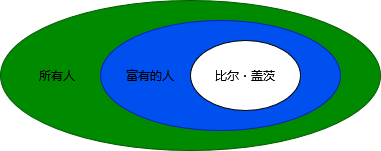
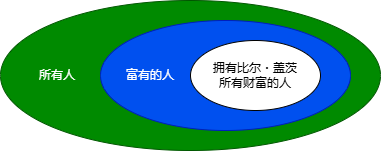
updated chapter_1.rst

diff --git a/static/css/style.css b/static/css/style.css
@@ -230,7 +230,6 @@ body.chapter .chapter-content-container {
     margin-left: 1rem;
     width: 70%;
     line-height: 1.6; /* 设置行间距 */
-    ext-align: justify; /* 文本两端对齐 */
 }
 
 body.book_preface .preface-content-container,
@@ -238,7 +237,6 @@ body.book_author .author-content-container {
     width: 80%;
     margin: 0 auto;  /* 让容器水平居中 */
     line-height: 1.7; /* 设置行间距 */
-    ext-align: justify; /* 文本两端对齐 */
 }
 
 body.book_preface .preface-title-container,
@@ -249,19 +247,20 @@ body.book_author .author-title-container {
     text-align: center;      /* 确保内容文字居中 */
 }
 
-/* 对段落生效 */
+/* 对段落生效 
 body.chapter .chapter-content-container p,
 body.book_preface .preface-content-container p,
 body.book_author .author-content-container p {
-    line-height: 1.5; /* 设置行间距 */
-    ext-align: justify; /* 文本两端对齐 */
-}
+    line-height: 1.5;  设置行间距 
+    ext-align: justify; /* 文本两端对齐 
+} */
 
 
 
 .rst-content {
-    font-size: 0.95rem;
-    line-height: 1.5;  /* 适度增加行距，提升可读性 */
+    font-size: 0.82rem;
+    line-height: 1.7;  /* 适度增加行距，提升可读性 */
+    text-align: justify;  /* 両端揃え */
 }
 
 /* 调整 reStructuredText 生成的标题大小和行距 */
@@ -289,6 +288,8 @@ body.book_author .author-content-container p {
 /* 代码块整体样式 */
 pre {
     background-color: #f8f9fa;  /* 代码块背景色 */
+    font-size: 0.79rem;
+    font-family: 'Fira Code', monospace;
     padding: 10px;
     border-radius: 6px;
     overflow-x: auto;
@@ -298,8 +299,6 @@ pre {
 
 /* 行内代码（去除语法高亮样式） */
 code {
-    font-family: "Open Sans", sans-serif;
-    font-size: 14px;
     background: none;
     padding: 2px 4px;
     border-radius: 4px;

diff --git a/templates/tutorials.html b/templates/tutorials.html
@@ -5,7 +5,7 @@
     <!-- 页面标题 -->
     <h1 class="text-start tutorials-page-title">Logic for Everybody (LG4E)</h1>
     <p class="mt-4 tutorials-description">
-        这个网站目前主要面向母语为简体中文的读者们。内容会从翻译一些逻辑学入门书籍开始・・・
+        这个网站目前主要面向母语为简体中文的读者们。会从翻译一些逻辑学入门书开始・・・
     </p>
 
     <!-- 分类卡片网格布局 -->

diff --git a/templates/base.html b/templates/base.html
@@ -21,8 +21,10 @@
     <!-- MathJax 配置 -->
     <script>
         MathJax = {
-            tex: { 
-                inlineMath: [['$', '$'], ['\\(', '\\)']]
+            tex: {
+                inlineMath: [['$', '$'], ['\\(', '\\)']],
+                displayMath: [['$$', '$$'], ['\\[', '\\]']],
+                processEscapes: true
             },
             svg: { 
                 fontCache: 'global' 

diff --git a/static/css/custom.css b/static/css/custom.css
@@ -1,12 +1,13 @@
 .figure {
     display: block;
-    margin-left: 20%;
+    margin: auto;
     width: 30%;
 }
 
 .figure img {
     display: block;
     width: 100%;
+    margin-top: 0.5em;  /* 上部に1文字分の余白を追加 */
 }
 
 .figure .caption {

diff --git a/app.py b/app.py
@@ -6,7 +6,7 @@ from docutils.core import publish_parts
 from config import CATEGORIES, BOOKS
 from sphinx.application import Sphinx
 from sphinx.builders.html import StandaloneHTMLBuilder
-from functools import lru_cache  # 添加缓存装饰器
+# from functools import lru_cache  # 添加缓存装饰器
 from pathlib import Path  # 使用 Path 处理路径
 
 # 初始化 Flask 应用
@@ -42,9 +42,9 @@ def inject_globals():
         "categories": CATEGORIES,
     }
 
-@lru_cache(maxsize=100)  # 添加缓存装饰器
+#@lru_cache(maxsize=100)  # 添加缓存装饰器
 def render_rst_file(file_path: str) -> Markup:
-    """通用函数：渲染 RST 文件，添加缓存以提高性能"""
+ #   """通用函数：渲染 RST 文件，添加缓存以提高性能"""
     path = Path(file_path)
     if not path.exists():
         logging.warning(f"RST file not found: {file_path}")
@@ -55,7 +55,16 @@ def render_rst_file(file_path: str) -> Markup:
         html_content = publish_parts(
             source=content,
             writer_name='html',
-            settings_overrides={'math_output': 'MathJax'}
+            settings_overrides={
+                'math_output': 'MathJax',  # MathJax を有効化
+                'math_opts': {             # 数式レンダリングオプション
+                    'format': 'mathjax',
+                    'font_encoding': 'UTF-8'
+                },
+                'input_encoding': 'utf-8',  # 入出力エンコーディング指定
+                'output_encoding': 'utf-8',
+                'halt_level': 4            # エラー制御を厳格化
+            }
         )['html_body']
         return Markup(html_content)
     except Exception as e:

diff --git a/content/introduction_to_logic/introduction_to_logic/chapter_1.rst b/content/introduction_to_logic/introduction_to_logic/chapter_1.rst
@@ -7,33 +7,31 @@
 
     <h3>◇逻辑学的定义</h3>
 
-::
 
-    逻辑学是研究区分正确与错误推理的方法和原理的学科。 
-    Logic is the study of the methods and principles used to distinguish correct from incorrect reasoning.
+- 逻辑学是研究区分正确与错误推理的方法和原理的学科。 
+- Logic is the study of the methods and principles used to distinguish correct from incorrect reasoning.
 
-※：这里的"逻辑"是指古典逻辑（classical logic），它是本书前半部分主要讨论的内容。
+　　※这里的"逻辑"是指古典逻辑（classical logic），它是本书前半部分主要讨论的内容。
 
 .. raw:: html
 
    <h3>◇正确的推理：逻辑在推理中扮演的角色</h3>
 
 
-- 当我们在做四则运算时，只有遵循相应的计算规则才能够得到正确答案。同样，在推理过程中，也必须遵循某种既定规则，结论才能必然地从所假定的前提中被推导出来。
-- 这正是逻辑扮演的角色：它相当于一套"规则体系"，不仅能帮助我们根据前提推导出符合规则的结论，同时也能指导我们区分"可靠推理"与"谬误推理"。
-- 然而，与数学符号相比，自然语言更容易出现歧义、暗示和上下文依赖等问题，这使得"把前提和结论拆解得清清楚楚"并不容易。好在这本书提供了大量练习场景，让我们能在各种语境中反复演练如何辨析前提与结论，并逐渐熟练运用这些逻辑规则，从而使思考和表达更加清晰、严谨。
+- 在数学中，当我们进行四则运算的时候，必须遵循特定的计算规则才能够得到正确的结果。同样，在推理过程中，我们也必须遵循某种既定规则，才能确保结论必然地从所假定的前提中被推导出来。
+- 这正是逻辑所扮演的角色：它提供这样一套"规则体系"，不仅能帮助我们根据给定的前提推导出符合规则的结论，同时也能指导我们区分"有效推论"与"无效推论"。
+- 但是，和数学符号比起来，自然语言更容易出现歧义、暗示和上下文依赖等等的问题，这使得"把前提和结论拆解得清清楚楚"并不是一件容易的事情。好在这本书提供了大量练习的场景，让我们能在各种语境中反复演练如何辨析前提与结论，并深入了解它们之间的的关系，从而使思考和表达更加清晰、严谨。
 
 **举个例子，**
 
 ::
 
-    如果我拥有比尔·盖茨的所有财富，那么我将是富有的
-    我不拥有比尔·盖茨的所有财富
-    所以我不是富有的。
+     ①如果我拥有比尔·盖茨的所有财富，那么我将是富有的
+     ②我不拥有比尔·盖茨的所有财富
+     ∴ ③所以我不是富有的。
 
 
-虽然这个论证的前提和结论都是正确的，但是总感觉逻辑上感觉有点怪怪的。
-让我们看一张图就明白了。
+虽然这个论证的前提和结论都是正确的，但是逻辑上会让人感觉有点怪怪的。 让我们来看一张图就明白了。
 
 .. figure:: /static/img/Ch1_001.png
    :alt: img1
@@ -41,3 +39,47 @@
    :name: fig1
 
    **图 1:** 这是图片的说明文本
+
+由于在推理过程中忽略掉了蓝色的部分，从而导致它变成了一个无效推论。不过只需调换一下②和③的位置，就可以得到一个有效推论：
+
+::
+
+    ①如果我拥有比尔·盖茨的所有财富，那么我将是富有的
+    ③我不是富有的
+    ∴ ②所以我不拥有比尔·盖茨的所有财富
+
+
+| 看到这里，可能有的同学可能就会想，是不是所有这种形式的推论都有这种模式的错误呢。在讨论这个话题之前，我们先来了解一下条件命题
+
+
+看看下面这个推论：
+
+    $$P \\to Q, \\quad P \\quad \\therefore Q $$
+
+在这个推论中，前提为真的情况下，结论也一定为真。我们把这种形式的推论称为有效推论（valid）。其中，前半部分（$ P $）称作前件 (antecedent)，后半部分（$ Q $）为後件（consequent）。
+
+接下来，我们把刚才的两个例子抽象成符号，像下面这样：
+
+.. math::
+
+   \begin{aligned}  
+   ①&P \rightarrow Q, \quad \neg P && \therefore \neg Q \\
+   ②&P \rightarrow Q, \quad \neg Q && \therefore \neg P
+   \end{aligned}
+
+| 其中①的推理过程是无效的，逻辑学家们它起了一个专门的名字，叫做前件否定（Denying the antecedent）谬误。
+| 与之相对的，②是一个有效的推论，这种推理形式叫做后件否定（modus tollens）。
+| 到这里，我们就了解到了逻辑推理的一条“规则”。
+| 
+
+
+**1.2 命题与论证**
+=============================================================
+.. name: section-2
+
+
+.. raw:: html
+
+    <h3>◇逻辑学的定义</h3>
+
+::
